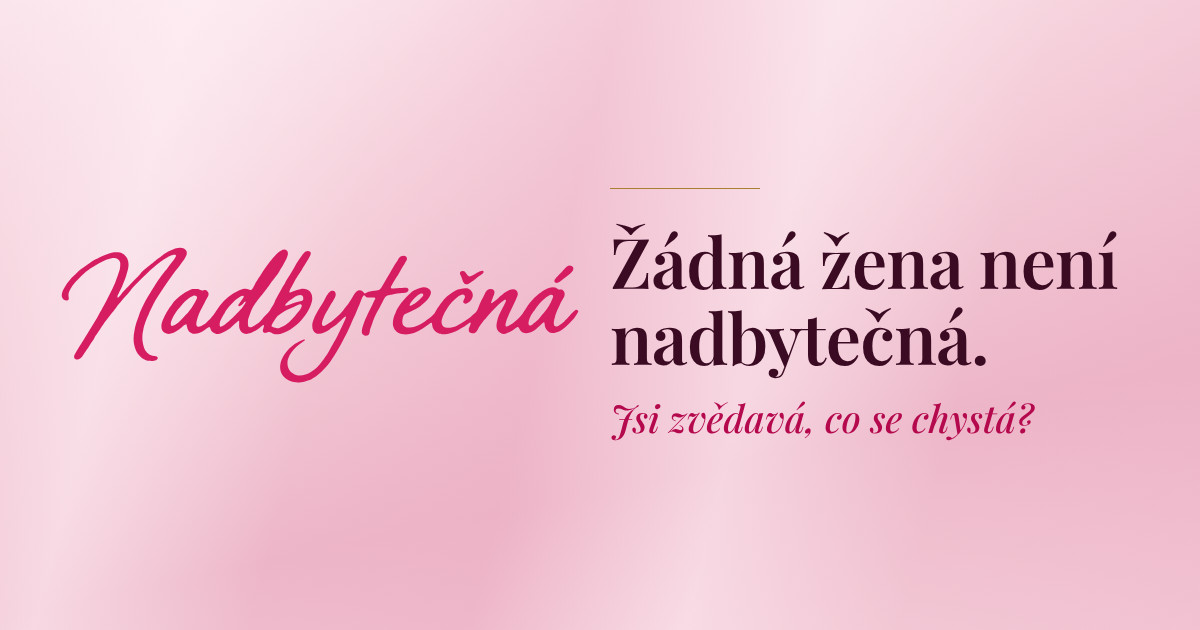
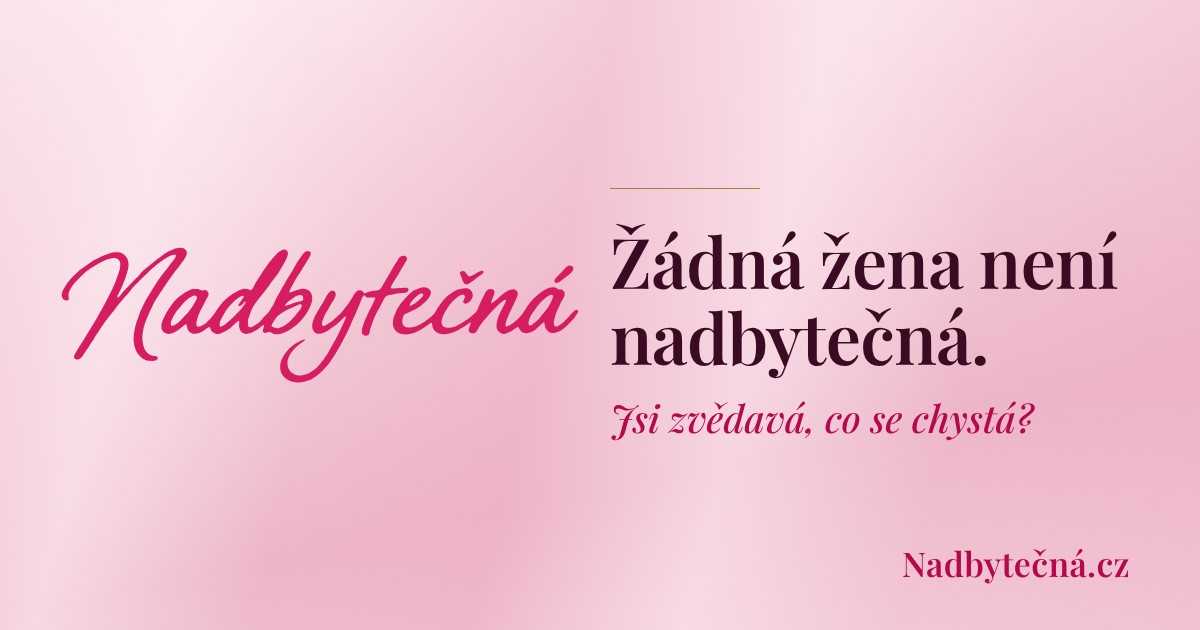
Nadbytečná.cz v patičce a v OG obrázku
Claude-Session: https://claude.ai/code/session_01Dwj5RMeXmQRnd8vvoaAk3j

Changed region(s): [[0.74, 0.8746, 0.9558, 0.9349], [0.5242, 0.2714, 0.6167, 0.3016]]

diff --git a/tools/og.html b/tools/og.html
@@ -10,4 +10,5 @@ img{width:520px;display:block}
 .r{height:1px;background:#A9802F;margin:0 0 34px;width:150px}
 h1{font:600 70px/1.08 PF,Georgia,serif;color:#3A0B22;margin:0 0 20px;letter-spacing:-.01em}
 p{font:italic 500 38px/1.25 PF,Georgia,serif;color:#B5094D;margin:0}
-</style><body><img src="../public/img/nadbytecna-script.svg" alt=""><div><div class="r"></div><h1>Žádná žena není nadbytečná.</h1><p>Jsi zvědavá, co se chystá?</p></div></body></html>
+.d{position:absolute;right:70px;bottom:44px;font:600 34px PF,Georgia,serif;color:#B5094D;letter-spacing:.01em}
+</style><body><img src="../public/img/nadbytecna-script.svg" alt=""><div><div class="r"></div><h1>Žádná žena není nadbytečná.</h1><p>Jsi zvědavá, co se chystá?</p></div><div class="d">Nadbytečná.cz</div></body></html>

diff --git a/src/site.css b/src/site.css
@@ -128,3 +128,5 @@ body[data-page=thanks] .sub{font-size:clamp(1.25rem,5.2vw,1.45rem);line-height:1
 }
 @media (prefers-reduced-motion:reduce){*{transition:none!important;animation:none!important}}
 @media (forced-colors:active){button.cta{border:2px solid ButtonText}.consent input:checked::after{background:CanvasText}}
+
+.foot .dom{font-family:'Playfair Display',Georgia,serif;font-weight:600;letter-spacing:.01em}
